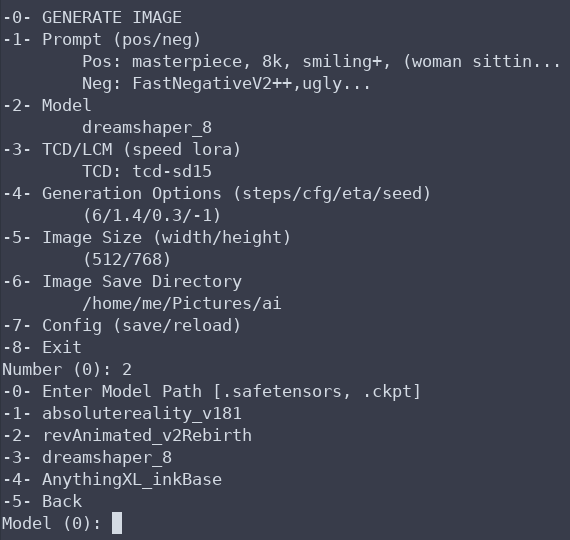
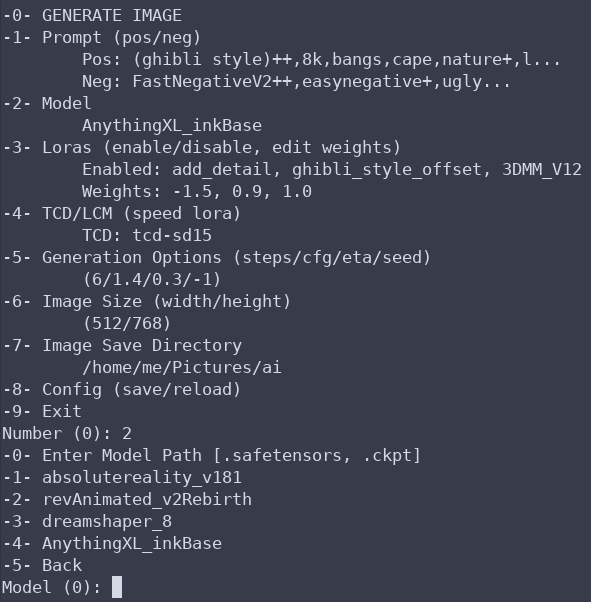
Readme: added lora to config + other

diff --git a/README.md b/README.md
@@ -78,6 +78,8 @@ Then it will act as a start script once everything is setup
   - Seed
     - -1 is random
   - Image width / height
+    - 256, 512, 768, 1024 sizes supported (width or height)
+    - most SD 1.5 models work well with 512x512 or 512x768
   - Safety Checker
     - Choice, makes images safe for work
     - Downloads safety checker online if set to true
@@ -92,10 +94,12 @@ Then it will act as a start script once everything is setup
   - Defaults to your "Pictures" directory
 
 ## configs/config.ini Example
+(not a good lora combo or prompt, just a config example)
+
 ```
 [PROMPT]
-positive = masterpiece, 8k, smiling+, (woman sitting)1.3 on chair, asian---, forest, (yellow dress)++, black shoes, (sunrise)+++
-negative = FastNegativeV2+++,ugly, (bad face)++, small eyes, UnrealisticDream+++
+positive = (ghibli style)++,8k,bangs,cape,nature+,looking at viewer,necklace+,masterpiece,green eyes,3DMM+++
+negative = FastNegativeV2++,easynegative+,ugly
 
 [OPTIONS]
 steps = 6
@@ -108,7 +112,7 @@ safe = False
 offline = False
 
 [MODEL]
-model = /home/me/src/stable-diffusion/tinydiffusioncpu/models/dreamshaper_8.safetensors
+model = /home/me/src/stable-diffusion/tinydiffusioncpu/models/anime/AnythingXL_inkBase.safetensors
 
 [PATHS]
 root = /home/me/src/stable-diffusion/tinydiffusioncpu
@@ -117,8 +121,25 @@ loras = ${root}/loras
 embeddings = ${root}/embeddings
 saves = /home/me/Pictures/ai
 
+[LORAS]
+files = /home/me/src/stable-diffusion/tinydiffusioncpu/loras/add_detail.safetensors
+	/home/me/src/stable-diffusion/tinydiffusioncpu/loras/anime/ghibli_style_offset.safetensors
+	/home/me/src/stable-diffusion/tinydiffusioncpu/loras/3DMM_V12.safetensors
+weights = -1.5
+	0.9
+	1.0
+default_weight = 0.8
+
 [SPECIAL]
 mode = 1
+weight = 1.0
 tcd = ${PATHS:loras}/special/tcd-sd15.safetensors
 lcm = ${PATHS:loras}/special/lcm-sd15.safetensors
 ```
+
+## Resource Usage
+Most Stable Diffusion 1.5 models use around 5.7 Gi at 512x768 image width/height + 1.4 CFG + loras + embeddings
+
+The time it takes to generate an image depends on your CPU, also the longer you use your CPU the slower it will get, allowing the CPU to relax helps speed up the next usage
+
+Memory/CPU usage can be lowered by setting the CFG to 1.0 or lower, not using loras, not using embeddings, lower image size (512x512), and USING TCD or LCM
